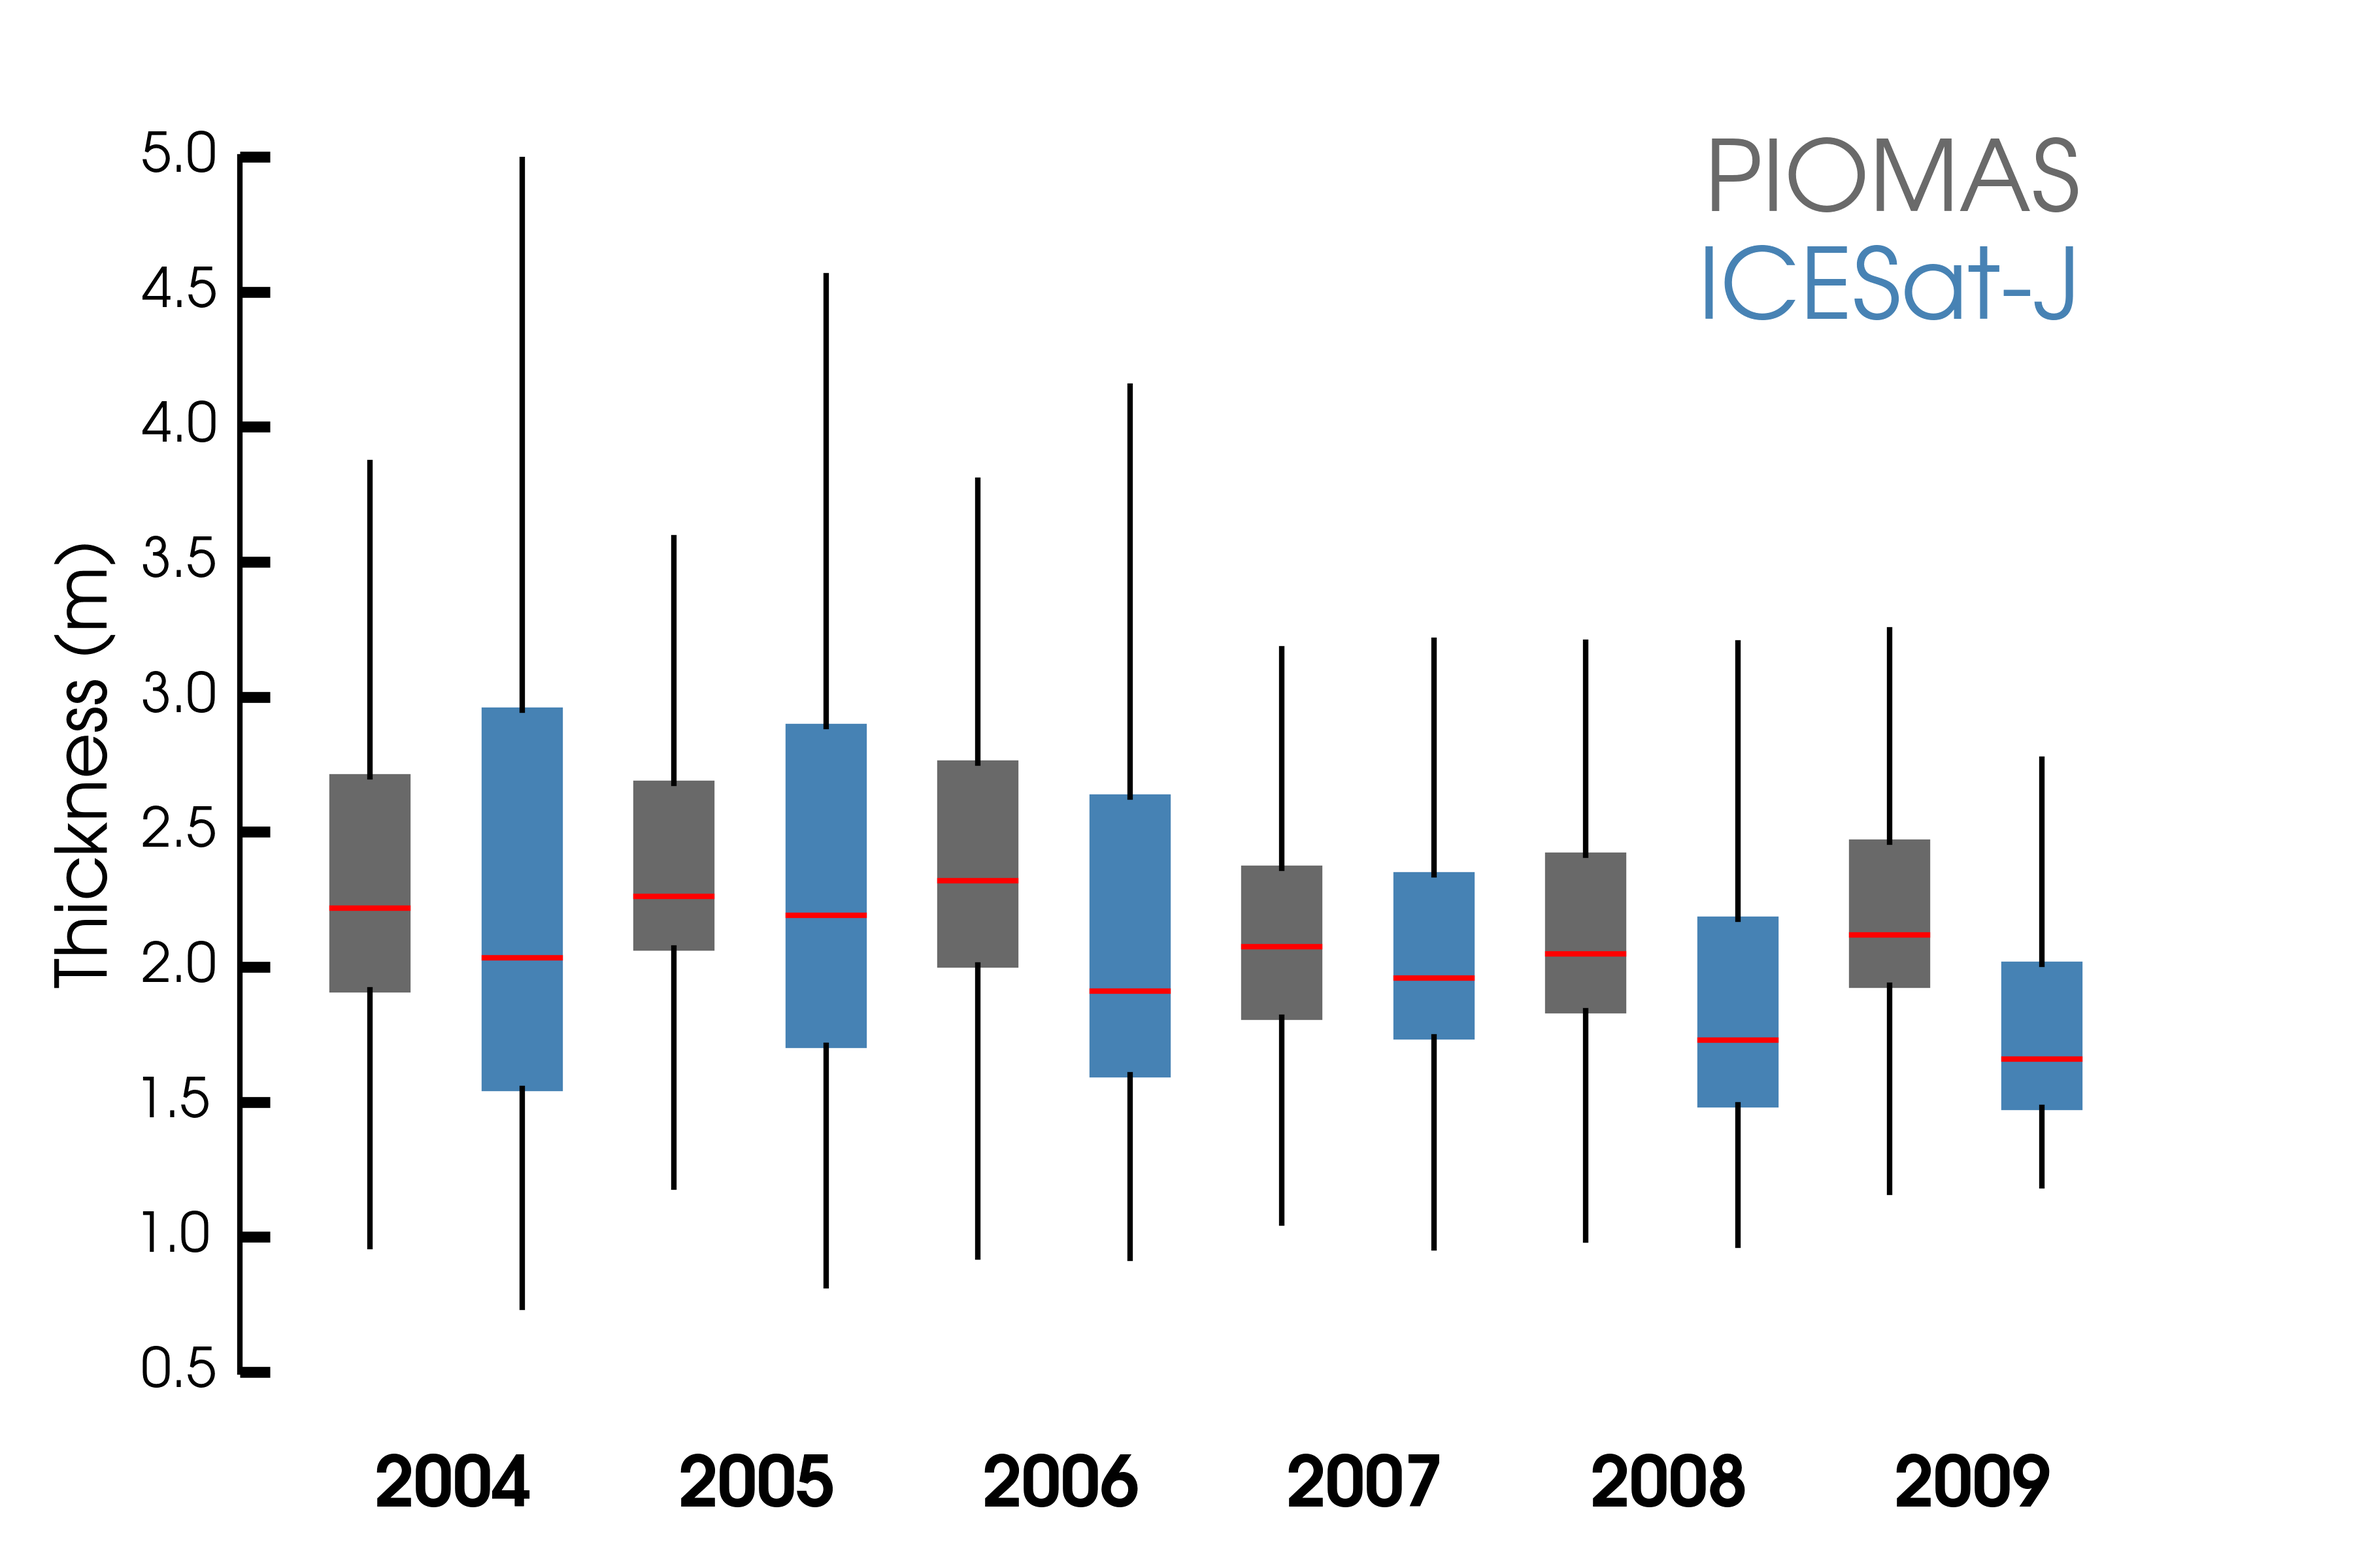
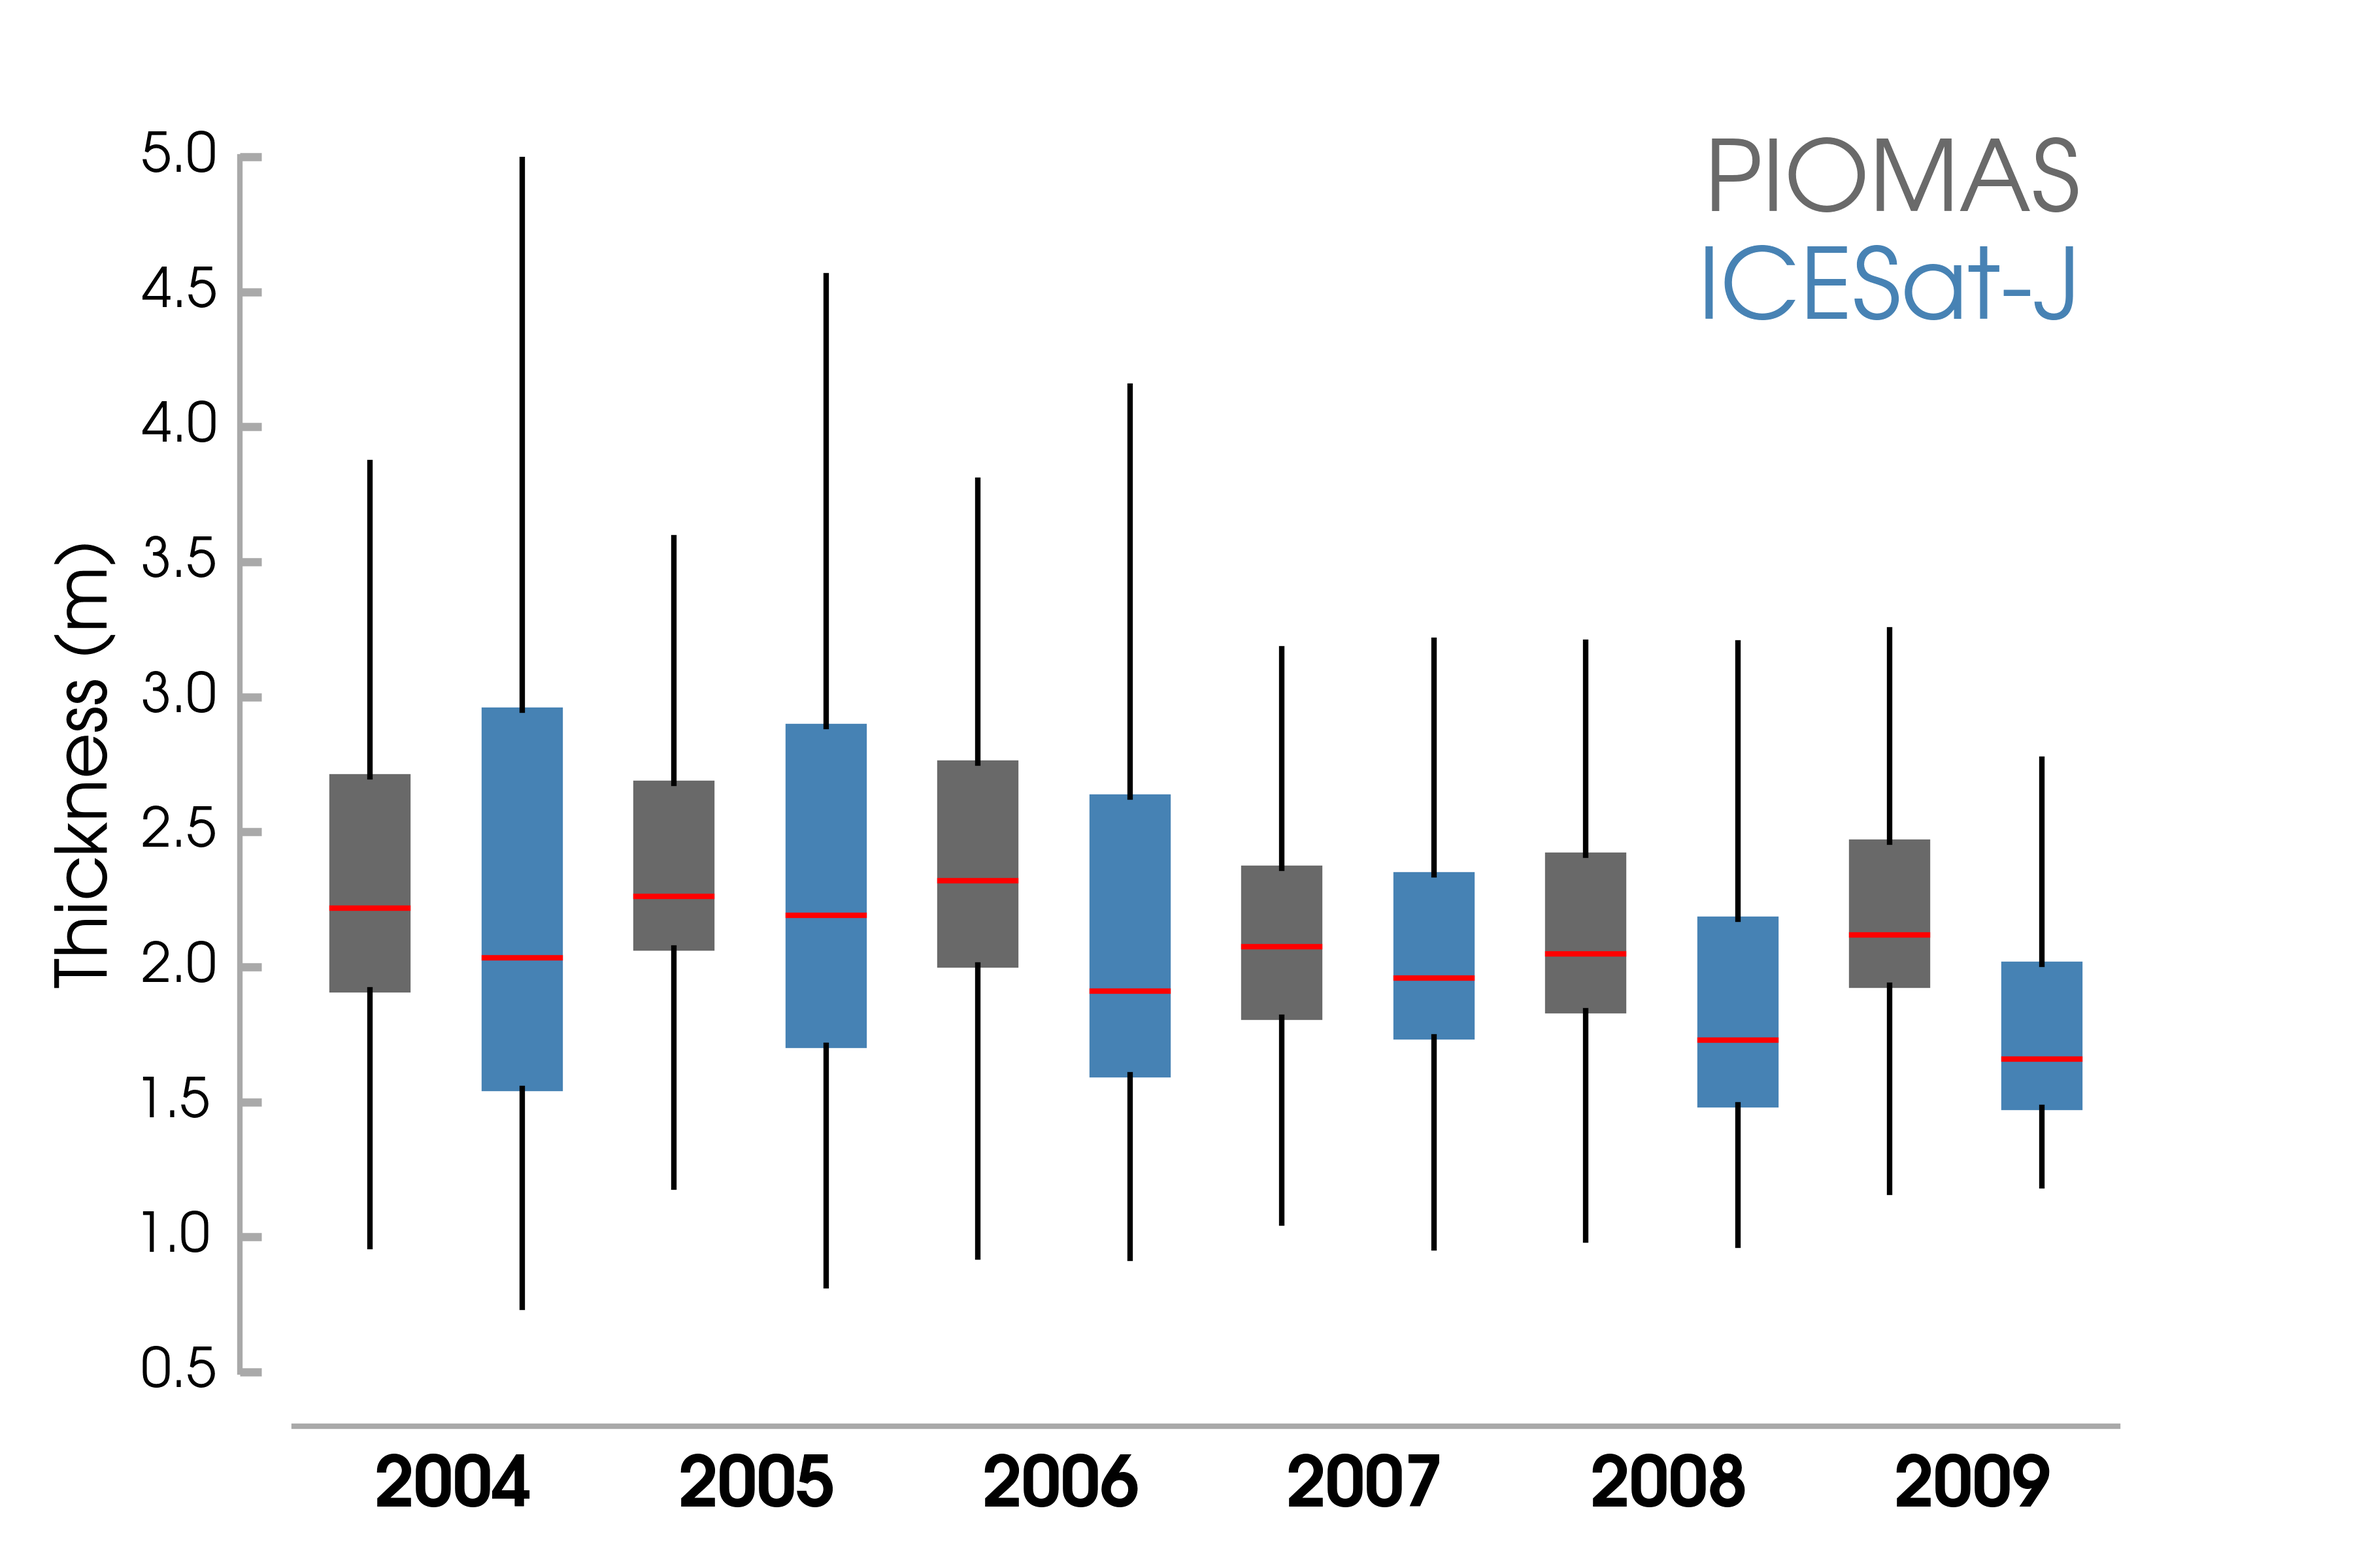
Updated MS figures

diff --git a/Scripts/plot_PiomasSatelliteScatter.py b/Scripts/plot_PiomasSatelliteScatter.py
@@ -249,7 +249,7 @@ plt.savefig(directoryfigure + 'scattertest.png',dpi=300)
 #
 #plt.savefig(directoryfigure + 'scattertest2.png',dpi=300)
 
-fig = plt.figure()
+fig = plt.figure(figsize=(7,7))
 #ax = plt.subplot(111)
 
 nullfmt = NullFormatter()
@@ -308,19 +308,19 @@ axScatter.set_yticklabels(map(str,np.arange(0,8,1)))
 binwidth=0.25
 bins = np.arange(0,7 + binwidth,binwidth)
 n,bins,patches = axHistx.hist(varx[mask],bins=bins,normed=True,
-             facecolor='dimgrey',edgecolor='w',alpha=1,linewidth=0.35)
+             facecolor='dimgrey',edgecolor='w',alpha=1,linewidth=0.45)
 n,binsy,patches = axHisty.hist(vary[mask],bins=bins,normed=True,
                                orientation='horizontal',
                                facecolor='dimgrey',edgecolor='w',
-                               alpha=1,linewidth=0.35)
+                               alpha=1,linewidth=0.45)
 
 mu,sigma = sts.norm.fit(varx[mask])             
 y = mlab.normpdf(bins,mu,sigma)
-lx = axHistx.plot(bins,y,'k-',linewidth=0.5)
+#lx = axHistx.plot(bins,y,'k-',linewidth=0.5)
 
 mu2,sigma2 = sts.norm.fit(vary[mask])
 y2 = mlab.normpdf(binsy,mu2,sigma2)
-ly = axHisty.plot(y2,binsy,'k-',linewidth=0.5)
+#ly = axHisty.plot(y2,binsy,'k-',linewidth=0.5)
 
 axHistx.spines['top'].set_color('none')
 axHistx.spines['right'].set_color('none')
@@ -332,6 +332,9 @@ axHisty.spines['left'].set_color('none')
 axHisty.spines['bottom'].set_color('none')
 axScatter.spines['top'].set_color('none')
 axScatter.spines['right'].set_color('none')
+axScatter.spines['left'].set_color('darkgrey')
+axScatter.spines['bottom'].set_color('darkgrey')
+axScatter.tick_params('both',length=4,width=1.5,which='major',color='darkgrey')
 
 axHistx.xaxis.set_ticks([])
 axHistx.yaxis.set_ticks([])
@@ -352,15 +355,15 @@ axScatter.legend(shadow=False,fontsize=7,loc='center',
 axScatter.grid(color='dimgrey',linewidth=0.4)
 
 #### Add labels
-axScatter.set_xlabel(r'\textbf{sit( PIOMAS )(m)}')
-axScatter.set_ylabel(r'\textbf{sit( ICESat-J )(m)}')
+axScatter.set_xlabel(r'\textbf{SIT( PIOMAS )(m)}')
+axScatter.set_ylabel(r'\textbf{SIT( ICESat-J )(m)}')
 
 #### Adjust plot
 fig.subplots_adjust(top=0.95)
 fig.subplots_adjust(bottom=0.15)
 
 ### Add text
-axHistx.text(5.05,0.05,r'*LOWESS Smoothing',fontsize=8)
+#axHistx.text(5.05,0.05,r'*LOWESS Smoothing',fontsize=8)
 
 plt.savefig(directoryfigure + 'scattertest2.png',dpi=800)
 
@@ -401,7 +404,9 @@ vp['cmins'].set_linewidth(0.5)
 vp['cmaxes'].set_linestyle('-')        
 vp['cmins'].set_linestyle('-')          
 vp['bodies'][0].set_facecolor('seagreen')
-vp['bodies'][1].set_facecolor('goldenrod')                      
+vp['bodies'][1].set_facecolor('goldenrod')      
+
+axb.text(-4,1.4,r'\textbf{[2004-2009]}',fontsize=10,color='darkgrey')     
 
 plt.xlim([0,9]) 
 plt.xticks(np.arange(0,10,1),[]) 
@@ -443,7 +448,9 @@ vp['cmeans'].set_linewidth(2)
 vp['cmaxes'].set_linestyle('-')        
 vp['cmins'].set_linestyle('-')              
 vp['bodies'][0].set_facecolor('seagreen')
-vp['bodies'][1].set_facecolor('darkblue')                      
+vp['bodies'][1].set_facecolor('darkblue')        
+
+axb.text(-4,1.4,r'\textbf{[1986-1994]}',fontsize=10,color='darkgrey')              
  
 plt.xlim([0,9])                    
 plt.xticks(np.arange(0,10,1),[])      
@@ -467,6 +474,8 @@ axb.spines['right'].set_color('none')
 axb.spines['left'].set_color('none')
 axb.xaxis.set_ticks_position('bottom')
 axb.tick_params(left='off',right='off')
+axb.spines['bottom'].set_color('darkgrey')
+axb.tick_params('both',length=4,width=1.5,which='major',color='darkgrey')
 
 axb.set_aspect(1.9)
 
@@ -485,11 +494,12 @@ vp['cmeans'].set_linewidth(2)
 vp['cmaxes'].set_linestyle('-')        
 vp['cmins'].set_linestyle('-')              
 vp['bodies'][0].set_facecolor('seagreen')
-vp['bodies'][1].set_facecolor('darkred')                      
+vp['bodies'][1].set_facecolor('darkred')    
+
+axb.text(-4,1.4,r'\textbf{[2011-2015]}',fontsize=10,color='darkgrey')                  
                                          
 plt.xticks(np.arange(0,10,1),map(str,np.arange(0,10,1)))    
-plt.xlabel(r'Thickness (m)',fontsize=10)   
-axb.tick_params('both',length=5.5,width=1,which='major')
+plt.xlabel(r'\textbf{Thickness (m)}',fontsize=10)   
 
 ###########################################################################
 ###########################################################################
@@ -555,7 +565,7 @@ plt.savefig(directoryfigure + 'boxtest2.png',dpi=800)
 ###########################################################################
 ###########################################################################
 
-fig = plt.figure()
+fig = plt.figure(figsize=(7,7))
 #ax = plt.subplot(111)
 
 nullfmt = NullFormatter()
@@ -612,19 +622,19 @@ axScatter.set_yticklabels(map(str,np.arange(0,8,1)))
 binwidth=0.25
 bins = np.arange(0,7 + binwidth,binwidth)
 n,bins,patches = axHistx.hist(varx[mask],bins=bins,normed=True,
-             facecolor='dimgrey',edgecolor='w',alpha=1,linewidth=0.35)
+             facecolor='dimgrey',edgecolor='w',alpha=1,linewidth=0.45)
 n,binsy,patches = axHisty.hist(vary[mask],bins=bins,normed=True,
                                orientation='horizontal',
                                facecolor='dimgrey',edgecolor='w',
-                               alpha=1,linewidth=0.35)
+                               alpha=1,linewidth=0.45)
 
 mu,sigma = sts.norm.fit(varx[mask])             
 y = mlab.normpdf(bins,mu,sigma)
-lx = axHistx.plot(bins,y,'k-',linewidth=0.5)
+#lx = axHistx.plot(bins,y,'k-',linewidth=0.5)
 
 mu2,sigma2 = sts.norm.fit(vary[mask])
 y2 = mlab.normpdf(binsy,mu2,sigma2)
-ly = axHisty.plot(y2,binsy,'k-',linewidth=0.5)
+#ly = axHisty.plot(y2,binsy,'k-',linewidth=0.5)
 
 axHistx.spines['top'].set_color('none')
 axHistx.spines['right'].set_color('none')
@@ -636,6 +646,9 @@ axHisty.spines['left'].set_color('none')
 axHisty.spines['bottom'].set_color('none')
 axScatter.spines['top'].set_color('none')
 axScatter.spines['right'].set_color('none')
+axScatter.spines['left'].set_color('darkgrey')
+axScatter.spines['bottom'].set_color('darkgrey')
+axScatter.tick_params('both',length=4,width=1.5,which='major',color='darkgrey')
 
 axHistx.xaxis.set_ticks([])
 axHistx.yaxis.set_ticks([])
@@ -653,14 +666,14 @@ axScatter.legend(shadow=False,fontsize=7,loc='center',
                        fancybox=True,ncol=1,bbox_to_anchor=(0.93,0.18),
                         frameon=False)
                         
-axScatter.grid(color='dimgrey',linewidth=0.4)
+axScatter.grid(color='darkgrey',linewidth=0.4)
 
 ### Add text
-axHistx.text(5.05,0.05,r'*LOWESS Smoothing',fontsize=8)
+#axHistx.text(5.05,0.05,r'*LOWESS Smoothing',fontsize=8)
 
 #### Add labels
-axScatter.set_xlabel(r'\textbf{sit( PIOMAS )(m)}')
-axScatter.set_ylabel(r'\textbf{sit( CryoSat-2 )(m)}')
+axScatter.set_xlabel(r'\textbf{SIT( PIOMAS )(m)}')
+axScatter.set_ylabel(r'\textbf{SIT( CryoSat-2 )(m)}')
 #
 #### Adjust plot
 fig.subplots_adjust(top=0.95)
